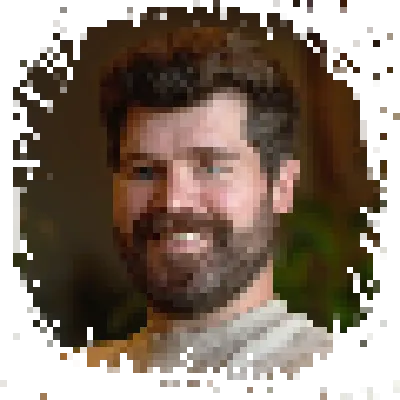
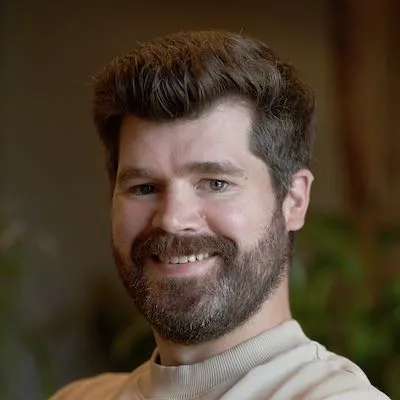
new theme!

diff --git a/assets/joakim.css b/assets/joakim.css
@@ -1,31 +1,17 @@
-@font-face {
-  font-family: "Irregardless";
-  src:
-    local("Irregardless"),
-    url("/assets/fonts/Irregardless-Bold.woff2") format("woff2");
-  font-weight: 700;
-  font-style: normal;
-  font-display: fallback;
+@media (prefers-reduced-motion: no-preference) {
+  @view-transition {
+    navigation: auto;
+  }
+  ::view-transition-new(root),
+  ::view-transition-old(root) {
+    animation-duration: 0.15s;
+  }
 }
 
 @font-face {
-  font-family: "Apple Garamond";
-  src: url("/assets/fonts/applegaramond-light.woff2") format("woff2");
+  font-family: "Silkscreen";
+  src: url("/assets/fonts/slkscr.woff2") format("woff2");
   font-weight: 400;
-  font-style: normal;
-  font-display: fallback;
-}
-@font-face {
-  font-family: "Apple Garamond";
-  src: url("/assets/fonts/applegaramond.woff2") format("woff2");
-  font-weight: 700;
-  font-style: normal;
-  font-display: fallback;
-}
-@font-face {
-  font-family: "Apple Garamond";
-  src: url("/assets/fonts/applegaramond-bold.woff2") format("woff2");
-  font-weight: 900;
   font-style: normal;
   font-display: fallback;
 }
@@ -39,28 +25,27 @@
 
 html {
   --ac: #fe5100;
-  background: var(--ac);
-  color: #410;
+  --bc: #fff4ef;
+  --tc: #623722;
+  background: var(--bc);
+  color: var(--tc);
   font:
-    clamp(1em, 0.9em + 1vw, 1.5em) / 1.5 "Apple Garamond",
-    Georgia,
-    serif;
+    normal clamp(1rem, 0.6667rem + 1.4222vw, 2rem) / 1.5 Silkscreen,
+    ui-monospace,
+    monospace;
   font-synthesis: none;
 }
+
 body {
-  background: #fff;
-  box-shadow: inset 0 0 1em 0 rgb(0 0 0 / 20%);
-  border: 3px solid var(--ac);
-  border-radius: 2.5em;
   display: grid;
   place-content: center;
-  min-height: 100vh;
-  padding: 2em;
+  min-height: 100dvh;
 }
 
-main > * {
-  margin-inline: auto;
-  text-align: center;
+main {
+  display: grid;
+  gap: 1.5lh;
+  padding: 1lh;
 }
 
 a {
@@ -70,29 +55,34 @@ a {
 }
 
 h1 {
-  font-size: clamp(3em, 3em + 1vw, 4em);
-  font-weight: 900;
-  line-height: 0.8;
-  text-align: center;
+  color: var(--ac);
+  font: normal clamp(3rem, 1.9167rem + 4.6222vw, 6.25rem) / 0.8 Silkscreen;
+  max-width: 11ch;
   overflow-wrap: break-word;
-}
-h1 span {
-  display: block;
-  font-weight: 700;
+  hyphens: manual;
 }
 
 img {
+  border-radius: 100%;
   display: block;
   height: auto;
   margin-inline: auto;
-  max-width: 200px;
-  width: 100%;
+  max-width: 50px;
+  position: absolute;
+  top: 1em;
+  right: 1em;
+  transition: all 0.3s ease-out;
+}
+img:hover {
+  max-width: 150px;
+  cursor: crosshair;
 }
 
 #intro {
-  font-size: 125%;
-  max-width: 55ch;
+  font-size: 1.25em;
+  max-width: 45ch;
 }
-main > * + * {
-  margin-top: 1.5rlh;
+
+p:not(#intro) {
+  max-width: 48ch;
 }

diff --git a/index.html b/index.html
@@ -12,23 +12,34 @@
 
   <body>
     <main>
-      <h1>Hei og velkommen!</h1>
+      <h1>Hei og vel&shy;kommen!</h1>
+
+      <p id="intro">
+        Jeg heter <strong>Joakim Næss Lea</strong> og digger design, teknologi og the World Wide
+        Web.
+      </p>
+      <p>Dette er hjemmesiden min, min digitale hage. Her kan alt skje! Eller ingenting, som nå.</p>
+      <p>
+        Tast <a href="tel:+4747311422">47 31 14 22</a> eller
+        <a href="mailto:hei@joak.im">hei@joak.im</a>, hvis du vil chatte.
+      </p>
       <img
         srcset="/assets/joakim-200px.webp, /assets/joakim-400px.webp 2x"
         src="/assets/joakim-400px.webp"
-        height="200"
-        width="200"
+        height="150"
+        width="150"
         alt="Et portrett av Joakim Næss Lea. En flott herremann med skjegg, i følge ham selv."
       />
-      <p id="intro">
-        Jeg heter <strong>Joakim Næss Lea</strong> og digger design, teknologi og the World Wide
-        Web. Dette er hjemmesiden min – min digitale hage. Her kan alt skje, eller ingenting. Sånn
-        som nå.
-      </p>
-      <p>
-        Send SMS til <a href="tel:+4747311422">47 31 14 22</a> eller epost til
-        <a href="mailto:hei@joak.im">hei@joak.im</a> hvis du vil chatte.
-      </p>
     </main>
+    <svg xmlns="http://www.w3.org/2000/svg" height="0" width="0">
+      <filter id="pixelate" x="0" y="0">
+        <feFlood x="4" y="4" height="1" width="1" />
+        <feComposite width="4" height="4" />
+        <feTile result="tiles" />
+        <feComposite in="SourceGraphic" operator="in" />
+        <feMorphology operator="dilate" radius="1.5" />
+        <feMorphology operator="erode" radius="1" />
+      </filter>
+    </svg>
   </body>
 </html>
